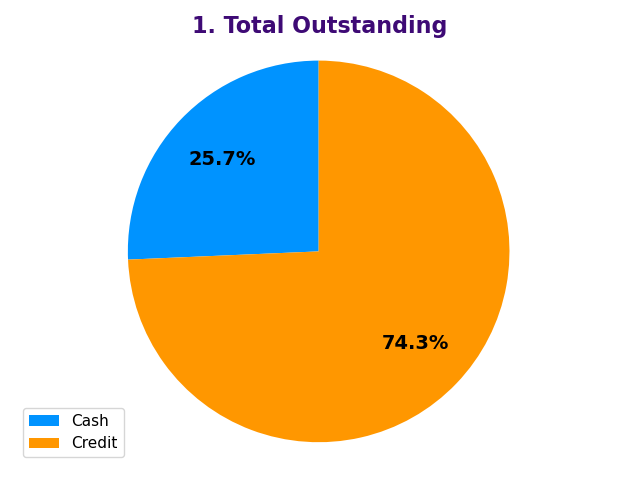
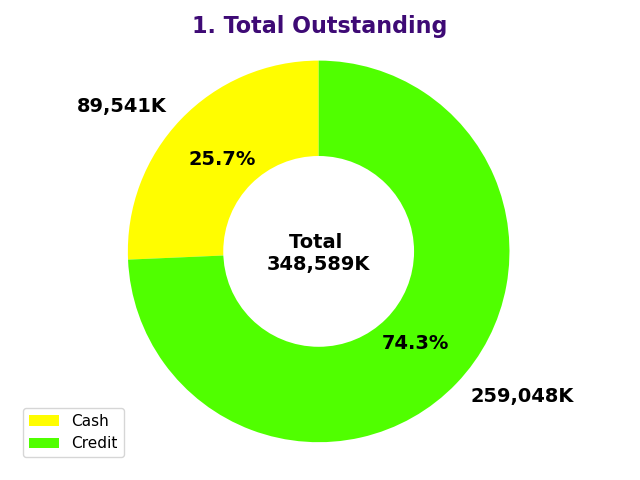
update total outstanding and credit outstanding KPI

diff --git a/Functions/credit_outstanding.py b/Functions/credit_outstanding.py
@@ -1,6 +1,7 @@
 from Functions import all_library as lib
 import Functions.all_function as fn
 
+
 def creditOutstanding():
     credit_category_df = lib.pd.read_sql_query(""" Select case when Days_Diff>0 then 'Matured Credit' else 'Regular Credit' End as  'Category',Sum(OUT_NET) as Amount from
                             (select INVNUMBER,INVDATE,
@@ -16,32 +17,31 @@ def creditOutstanding():
                                                                
                                                                 """, fn.conn)
 
-
     matured = int(credit_category_df.Amount.iloc[0])
     not_mature = int(credit_category_df.Amount.iloc[1])
 
     values = [matured, not_mature]
 
-    colors = ['#ff9700', '#0093ff']
-    legend_element = [lib.Patch(facecolor='#ff9700', label='Matured'),
-                      lib.Patch(facecolor='#0093ff', label='Not Mature')]
+    colors = ['#ffa800', '#50ff00']
+    legend_element = [lib.Patch(facecolor='#ffa800', label='Matured'),
+                      lib.Patch(facecolor='#50ff00', label='Not Mature')]
 
     total_credit = matured + not_mature
     total_credit = 'Total \n' + fn.numberInThousands(total_credit)
 
-    # data_label = [fn.numberInThousands(matured), fn.numberInThousands(not_mature)]
+    data_label = [fn.numberInThousands(matured), fn.numberInThousands(not_mature)]
     fig1, ax = lib.plt.subplots()
     # Ad this labels=data_label, in next line to add data lebel
-    wedges, labels, autopct = ax.pie(values, colors=colors,  autopct='%.1f%%', startangle=120,
+    wedges, labels, autopct = ax.pie(values, colors=colors, labels=data_label, autopct='%.1f%%', startangle=120,
                                      pctdistance=.7)
     lib.plt.setp(autopct, fontsize=14, color='black', fontweight='bold')
     lib.plt.setp(labels, fontsize=14, fontweight='bold')
 
     # Next four lines is for donute chart
-    # ax.text(0, -.1, total_credit, ha='center', fontsize=14, fontweight='bold', backgroundcolor='#00daff')
-    # centre_circle = lib.plt.Circle((0, 0), 0.50, fc='white')
-    # fig = lib.plt.gcf()
-    # fig.gca().add_artist(centre_circle)
+    ax.text(0, -.1, total_credit, ha='center', fontsize=14, fontweight='bold')
+    centre_circle = lib.plt.Circle((0, 0), 0.50, fc='white')
+    fig = lib.plt.gcf()
+    fig.gca().add_artist(centre_circle)
 
     # Equal aspect ratio ensures that pie is drawn as a circle
     lib.plt.title('2. Credit Outstanding', fontsize=16, fontweight='bold', color='#3e0a75')
@@ -50,5 +50,3 @@ def creditOutstanding():
     lib.plt.tight_layout()
     lib.plt.savefig('./Images/2.category_wise_credit.png')
     print('2. Category wise Credit Generated ')
-
-

diff --git a/Functions/outstanding.py b/Functions/outstanding.py
@@ -19,24 +19,24 @@ def totalOutstanding():
     total = cash + credit
     total = 'Total \n' + fn.numberInThousands(total)
 
-    colors = ['#0093ff', '#ff9700']
-    legend_element = [lib.Patch(facecolor='#0093ff', label='Cash'),
-                      lib.Patch(facecolor='#ff9700', label='Credit')]
+    colors = ['#fffd00', '#50ff00']
+    legend_element = [lib.Patch(facecolor='#fffd00', label='Cash'),
+                      lib.Patch(facecolor='#50ff00', label='Credit')]
 
-    # data_label = [fn.numberInThousands(cash), fn.numberInThousands(credit)]
+    data_label = [fn.numberInThousands(cash), fn.numberInThousands(credit)]
 
     fig1, ax = lib.plt.subplots()
     # Add this next line to show data
-    wedges, labels, autopct = ax.pie(data, colors=colors,  autopct='%.1f%%', startangle=90,
+    wedges, labels, autopct = ax.pie(data, labels=data_label, colors=colors,  autopct='%.1f%%', startangle=90,
                                      pctdistance=.7)
     lib.plt.setp(autopct, fontsize=14, color='black', fontweight='bold')
     lib.plt.setp(labels, fontsize=14, fontweight='bold')
 
    # To make a Donate chart uncomment next 4 lines ------------
-    # ax.text(0, -.1, total, ha='center', fontsize=14, fontweight='bold', backgroundcolor='#00daff')
-    # centre_circle = lib.plt.Circle((0, 0), 0.50, fc='white')
-    # fig = lib.plt.gcf()
-    # fig.gca().add_artist(centre_circle)
+    ax.text(0, -.1, total, ha='center', fontsize=14, fontweight='bold')
+    centre_circle = lib.plt.Circle((0, 0), 0.50, fc='white')
+    fig = lib.plt.gcf()
+    fig.gca().add_artist(centre_circle)
     lib.plt.title('1. Total Outstanding', fontsize=16, fontweight='bold', color='#3e0a75')
     ax.axis('equal')
     lib.plt.legend(handles=legend_element, loc='lower left', fontsize=11)

diff --git a/generate_all_kpi.py b/generate_all_kpi.py
@@ -1,17 +1,17 @@
-#
-# # #--------- 1. Total Outstanding ---------------------------------
-# import Functions.outstanding as out
+
+# #--------- 1. Total Outstanding ----------------------------------
+import Functions.outstanding as out
 # out.totalOutstanding()
-#
-# # # # ------- 2. Credit Outstanding ---------------------------------
-# import Functions.credit_outstanding as credit
+
+# # # ------- 2. Credit Outstanding ---------------------------------
+import Functions.credit_outstanding as credit
 # credit.creditOutstanding()
-#
-# # # ---. 3. NDM wise credit outstanding ---------------------------
+
+# # ---. 3. NDM wise credit outstanding -----------------------------
 import Functions.ndm_outstanding as ndm_out
 ndm_out.ndm_wise_outstanding()
 #
-# # # ---- 4. matured credit aging ----------------------------------
+# # # ---- 4. matured credit aging ------------------------------------
 # import Functions.matured_credit_aging as ndm_matured
 # ndm_matured.matured_credit()
 # #
@@ -20,8 +20,8 @@ ndm_out.ndm_wise_outstanding()
 # ndm_aging.ndm_matured_credit_aging()
 # #
 # # # -------- 6. Branch wise matured  credit aging  -------------------
-import Functions.branch_wise_matured_crdit as branch_matured
-branch_matured.branch_wise_matured_credit()
+# import Functions.branch_wise_matured_crdit as branch_matured
+# branch_matured.branch_wise_matured_credit()
 # #
 # # # # -- 7. Total Non-matured credit aging ---------------------------
 # import Functions.total_non_matured_credit_aging as non_matured_credit
